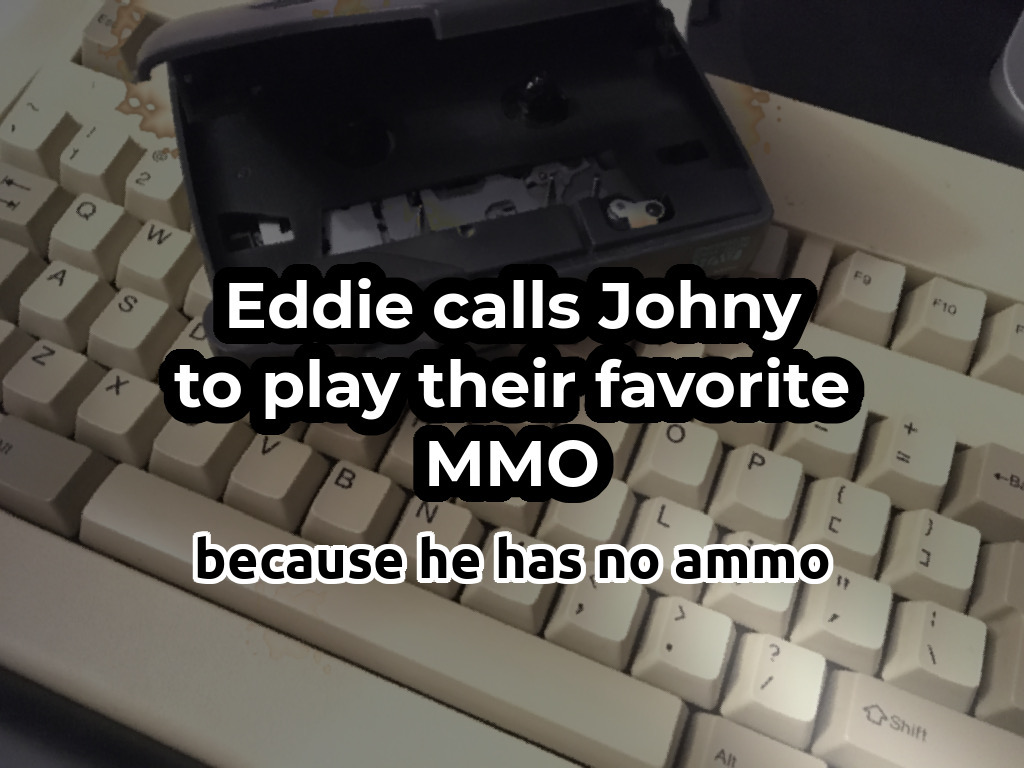
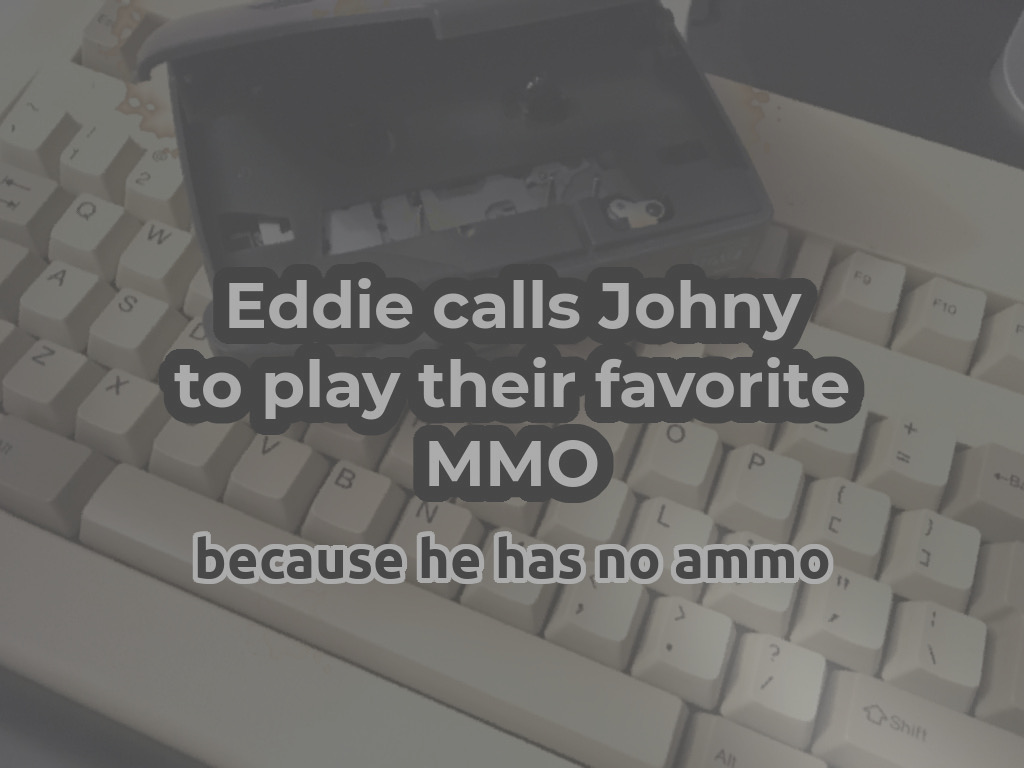
Updated Eddie thumbnail and Github link

diff --git a/_layouts/games.html b/_layouts/games.html
@@ -77,7 +77,7 @@ layout: default
     <h3 id="here-is-the-list-of-my-games-for-android">Here is the list of some of my works:</h3>
     <div class="containter">
         <div class="row">
-            <div class="col-md-6"><div style="background-size: cover; background-position: center center; background-image: url(/images/hydrogens1.jpg); background-repeat: no-repeat" class="game-card card mb-4 shadow-sm"><img src="/images/hydrogen.png" /><i style="" class="platform fab fa-android"></i><div class="card-body"><div><p class="h3 game-name" style="color: #fff">Hydrogen</p><a href="https://play.google.com/store/apps/details?id=com.furfel.game2demo" role="button" class="btn btn-secondary"><i class="fab fa-google-play"></i> Google Play</a></div></div></div></div><div class="col-md-6"><div style="background-size: cover; background-position: center center; background-image: url(/images/eddiecalls2.jpg); background-repeat: no-repeat" class="game-card card mb-4 shadow-sm"><i style="" class="platform fab fa-html5"></i><div class="card-body"><div><p class="h3 game-name" style="color: #fff">Eddie Calls Johny To Play Their Favorite MMO</p><a href="https://furfel.itch.io/eddie-calls-johnny-2" role="button" class="btn btn-secondary"><i class="fab fa-itch-io"></i> itch.io</a></div></div></div></div><div class="col-md-6"><div style="background-size: cover; background-position: center center; background-image: url(/images/dasneulands1.jpg); background-repeat: no-repeat" class="game-card card mb-4 shadow-sm"><i style="" class="platform fab fa-html5"></i><div class="card-body"><div><p class="h3 game-name" style="color: #fff">Das Neuland Eins</p><a href="https://furfel.itch.io/das-neuland-eins" role="button" class="btn btn-secondary"><i class="fab fa-itch-io"></i> itch.io</a></div></div></div></div><div class="col-md-6"><div style="background-size: cover; background-position: center center; background-image: url(/images/saveivees1.jpg); background-repeat: no-repeat" class="game-card card mb-4 shadow-sm"><i style="" class="platform fab fa-html5"></i><div class="card-body"><div><p class="h3 game-name" style="color: #fff">Save Ivee</p><a href="https://github.com/furfel/LDJam46" role="button" class="btn btn-secondary"><i class="fab fa-github"></i> GitHub</a><a href="https://furfel.itch.io/save-ivee" role="button" class="btn btn-secondary"><i class="fab fa-itch-io"></i> itch.io</a><a href="https://ldjam.com/events/ludum-dare/46/save-ivee/" role="button" class="btn btn-secondary"><i class="fa fa-trophy"></i> LD Entry</a></div></div></div></div><div class="col-md-6"><div style="background-size: cover; background-position: center center; background-image: url(/images/graveyss1.jpg); background-repeat: no-repeat" class="game-card card mb-4 shadow-sm"><i style="" class="platform fab fa-html5"></i><div class="card-body"><div><p class="h3 game-name" style="color: #fff">Gravey`s Dungeon</p><a href="https://github.com/furfel/101GameJam" role="button" class="btn btn-secondary"><i class="fab fa-github"></i> GitHub</a><a href="https://furfel.itch.io/graveys-dungeon" role="button" class="btn btn-secondary"><i class="fab fa-itch-io"></i> itch.io</a></div></div></div></div><div class="col-md-6"><div style="background-size: cover; background-position: center center; background-image: url(/images/rekts1.jpg); background-repeat: no-repeat" class="game-card card mb-4 shadow-sm"><img src="/images/rekt.png" /><i style="" class="platform fab fa-android"></i><div class="card-body"><div><p class="h3 game-name" style="color: #fff">#Rekt 420 MLG Fast Jump</p><a href="https://play.google.com/store/apps/details?id=com.furfel.rekt420mlgfastjump" role="button" class="btn btn-secondary"><i class="fab fa-google-play"></i> Google Play</a></div></div></div></div><div class="col-md-6"><div style="background-size: cover; background-position: center center; background-image: url(/images/flappys1.jpg); background-repeat: no-repeat" class="game-card card mb-4 shadow-sm"><img src="/images/flappy.png" /><i style="" class="platform fab fa-android"></i><div class="card-body"><div><p class="h3 game-name" style="color: #fff">Flappy 2048 Cookie Doge Simulator</p><a href="https://play.google.com/store/apps/details?id=com.furfel.whatever" role="button" class="btn btn-secondary"><i class="fab fa-google-play"></i> Google Play</a></div></div></div></div><div class="col-md-6"><div style="background-size: cover; background-position: center center; background-image: url(/images/cccs1.jpg); background-repeat: no-repeat" class="game-card card mb-4 shadow-sm"><img src="/images/ccc.png" /><i style="" class="platform fab fa-android"></i><div class="card-body"><div><p class="h3 game-name" style="color: #fff">Cute Coin Catcher</p><a href="https://github.com/furfel/cutecoincatcher" role="button" class="btn btn-secondary"><i class="fab fa-github"></i> GitHub</a></div></div></div></div><div class="col-md-6"><div style="background-size: cover; background-position: center center; background-image: url(/images/lolteroidss1.jpg); background-repeat: no-repeat" class="game-card card mb-4 shadow-sm"><img src="/images/lolteroids.png" /><i style="" class="platform fab fa-android"></i><div class="card-body"><div><p class="h3 game-name" style="color: #fff">Lolteroids</p><a href="https://github.com/furfel/lolteroids" role="button" class="btn btn-secondary"><i class="fab fa-github"></i> GitHub</a></div></div></div></div><div class="col-md-6"><div style="background-size: cover; background-position: center center; background-image: url(/images/fccs1.jpg); background-repeat: no-repeat" class="game-card card mb-4 shadow-sm"><i style="" class="platform fab fa-java"></i><div class="card-body"><div><p class="h3 game-name" style="color: #fff">Fluffy Cloud Candy</p><a href="https://github.com/furfel/Fluffy-Cloud-Candy" role="button" class="btn btn-secondary"><i class="fab fa-github"></i> GitHub</a></div></div></div></div><div class="col-md-6"><div style="background-size: cover; background-position: center center; background-image: url(/images/phurphels1.jpg); background-repeat: no-repeat" class="game-card card mb-4 shadow-sm"><img src="/images/phurphel.png" /><i style="" class="platform fab fa-android"></i><div class="card-body"><div><p class="h3 game-name" style="color: #fff">Phurphel Corp</p><a href="https://github.com/furfel/PhurphelCorp" role="button" class="btn btn-secondary"><i class="fab fa-github"></i> GitHub</a></div></div></div></div><div class="col-md-6"><div style="background-size: cover; background-position: center center; background-image: url(/images/factorycitys1.jpg); background-repeat: no-repeat" class="game-card card mb-4 shadow-sm"><i style="" class="platform fab fa-android"></i><div class="card-body"><div><p class="h3 game-name" style="color: #fff">Factory City</p><a href="https://github.com/furfel/FactoryCity" role="button" class="btn btn-secondary"><i class="fab fa-github"></i> GitHub</a></div></div></div></div>
+            <div class="col-md-6"><div style="background-size: cover; background-position: center center; background-image: url(/images/hydrogens1.jpg); background-repeat: no-repeat" class="game-card card mb-4 shadow-sm"><img src="/images/hydrogen.png" /><i style="" class="platform fab fa-android"></i><div class="card-body"><div><p class="h3 game-name" style="color: #fff">Hydrogen</p><a href="https://play.google.com/store/apps/details?id=com.furfel.game2demo" role="button" class="btn btn-secondary"><i class="fab fa-google-play"></i> Google Play</a></div></div></div></div><div class="col-md-6"><div style="background-size: cover; background-position: center center; background-image: url(/images/eddiecalls2.jpg); background-repeat: no-repeat" class="game-card card mb-4 shadow-sm"><i style="" class="platform fab fa-html5"></i><div class="card-body"><div><p class="h3 game-name" style="color: #fff">Eddie Calls Johny To Play Their Favorite MMO</p><a href="https://github.com/furfel/Brackeys2_LRJ" role="button" class="btn btn-secondary"><i class="fab fa-github"></i> GitHub</a><a href="https://furfel.itch.io/eddie-calls-johnny-2" role="button" class="btn btn-secondary"><i class="fab fa-itch-io"></i> itch.io</a></div></div></div></div><div class="col-md-6"><div style="background-size: cover; background-position: center center; background-image: url(/images/dasneulands1.jpg); background-repeat: no-repeat" class="game-card card mb-4 shadow-sm"><i style="" class="platform fab fa-html5"></i><div class="card-body"><div><p class="h3 game-name" style="color: #fff">Das Neuland Eins</p><a href="https://furfel.itch.io/das-neuland-eins" role="button" class="btn btn-secondary"><i class="fab fa-itch-io"></i> itch.io</a></div></div></div></div><div class="col-md-6"><div style="background-size: cover; background-position: center center; background-image: url(/images/saveivees1.jpg); background-repeat: no-repeat" class="game-card card mb-4 shadow-sm"><i style="" class="platform fab fa-html5"></i><div class="card-body"><div><p class="h3 game-name" style="color: #fff">Save Ivee</p><a href="https://github.com/furfel/LDJam46" role="button" class="btn btn-secondary"><i class="fab fa-github"></i> GitHub</a><a href="https://furfel.itch.io/save-ivee" role="button" class="btn btn-secondary"><i class="fab fa-itch-io"></i> itch.io</a><a href="https://ldjam.com/events/ludum-dare/46/save-ivee/" role="button" class="btn btn-secondary"><i class="fa fa-trophy"></i> LD Entry</a></div></div></div></div><div class="col-md-6"><div style="background-size: cover; background-position: center center; background-image: url(/images/graveyss1.jpg); background-repeat: no-repeat" class="game-card card mb-4 shadow-sm"><i style="" class="platform fab fa-html5"></i><div class="card-body"><div><p class="h3 game-name" style="color: #fff">Gravey`s Dungeon</p><a href="https://github.com/furfel/101GameJam" role="button" class="btn btn-secondary"><i class="fab fa-github"></i> GitHub</a><a href="https://furfel.itch.io/graveys-dungeon" role="button" class="btn btn-secondary"><i class="fab fa-itch-io"></i> itch.io</a></div></div></div></div><div class="col-md-6"><div style="background-size: cover; background-position: center center; background-image: url(/images/rekts1.jpg); background-repeat: no-repeat" class="game-card card mb-4 shadow-sm"><img src="/images/rekt.png" /><i style="" class="platform fab fa-android"></i><div class="card-body"><div><p class="h3 game-name" style="color: #fff">#Rekt 420 MLG Fast Jump</p><a href="https://play.google.com/store/apps/details?id=com.furfel.rekt420mlgfastjump" role="button" class="btn btn-secondary"><i class="fab fa-google-play"></i> Google Play</a></div></div></div></div><div class="col-md-6"><div style="background-size: cover; background-position: center center; background-image: url(/images/flappys1.jpg); background-repeat: no-repeat" class="game-card card mb-4 shadow-sm"><img src="/images/flappy.png" /><i style="" class="platform fab fa-android"></i><div class="card-body"><div><p class="h3 game-name" style="color: #fff">Flappy 2048 Cookie Doge Simulator</p><a href="https://play.google.com/store/apps/details?id=com.furfel.whatever" role="button" class="btn btn-secondary"><i class="fab fa-google-play"></i> Google Play</a></div></div></div></div><div class="col-md-6"><div style="background-size: cover; background-position: center center; background-image: url(/images/cccs1.jpg); background-repeat: no-repeat" class="game-card card mb-4 shadow-sm"><img src="/images/ccc.png" /><i style="" class="platform fab fa-android"></i><div class="card-body"><div><p class="h3 game-name" style="color: #fff">Cute Coin Catcher</p><a href="https://github.com/furfel/cutecoincatcher" role="button" class="btn btn-secondary"><i class="fab fa-github"></i> GitHub</a></div></div></div></div><div class="col-md-6"><div style="background-size: cover; background-position: center center; background-image: url(/images/lolteroidss1.jpg); background-repeat: no-repeat" class="game-card card mb-4 shadow-sm"><img src="/images/lolteroids.png" /><i style="" class="platform fab fa-android"></i><div class="card-body"><div><p class="h3 game-name" style="color: #fff">Lolteroids</p><a href="https://github.com/furfel/lolteroids" role="button" class="btn btn-secondary"><i class="fab fa-github"></i> GitHub</a></div></div></div></div><div class="col-md-6"><div style="background-size: cover; background-position: center center; background-image: url(/images/fccs1.jpg); background-repeat: no-repeat" class="game-card card mb-4 shadow-sm"><i style="" class="platform fab fa-java"></i><div class="card-body"><div><p class="h3 game-name" style="color: #fff">Fluffy Cloud Candy</p><a href="https://github.com/furfel/Fluffy-Cloud-Candy" role="button" class="btn btn-secondary"><i class="fab fa-github"></i> GitHub</a></div></div></div></div><div class="col-md-6"><div style="background-size: cover; background-position: center center; background-image: url(/images/phurphels1.jpg); background-repeat: no-repeat" class="game-card card mb-4 shadow-sm"><img src="/images/phurphel.png" /><i style="" class="platform fab fa-android"></i><div class="card-body"><div><p class="h3 game-name" style="color: #fff">Phurphel Corp</p><a href="https://github.com/furfel/PhurphelCorp" role="button" class="btn btn-secondary"><i class="fab fa-github"></i> GitHub</a></div></div></div></div><div class="col-md-6"><div style="background-size: cover; background-position: center center; background-image: url(/images/factorycitys1.jpg); background-repeat: no-repeat" class="game-card card mb-4 shadow-sm"><i style="" class="platform fab fa-android"></i><div class="card-body"><div><p class="h3 game-name" style="color: #fff">Factory City</p><a href="https://github.com/furfel/FactoryCity" role="button" class="btn btn-secondary"><i class="fab fa-github"></i> GitHub</a></div></div></div></div>
         </div>
     </div>
   </div>
